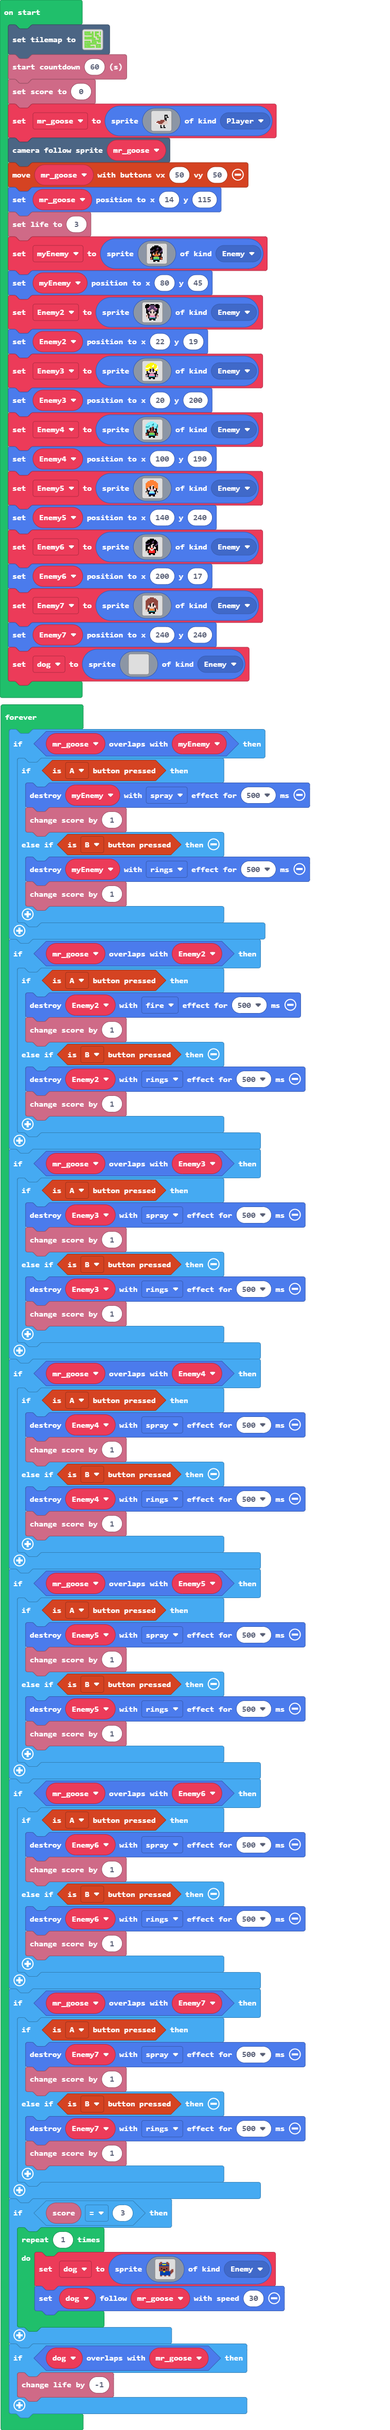
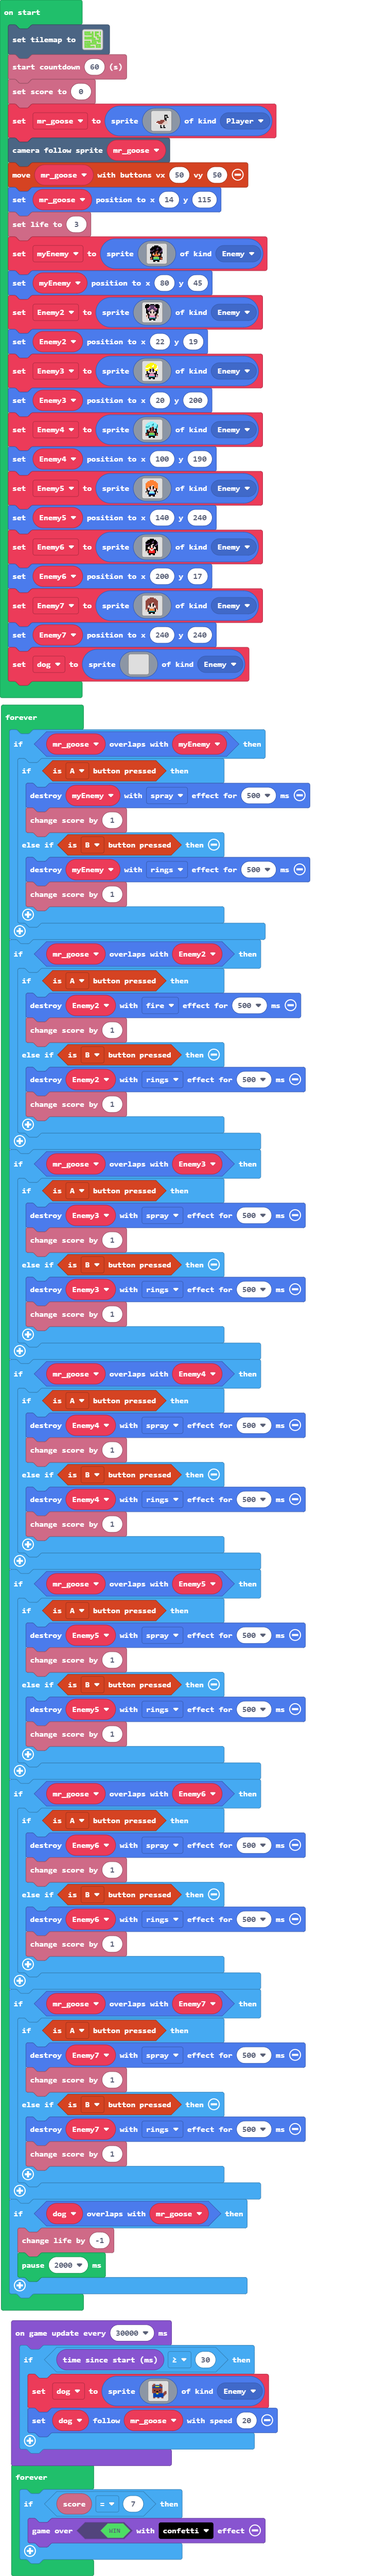
Update main.blocks, main.ts

diff --git a/main.ts b/main.ts
@@ -260,28 +260,34 @@ forever(function () {
             info.changeScoreBy(1)
         }
     }
-    if (info.score() == 3) {
-        for (let index = 0; index < 1; index++) {
-            dog = sprites.create(img`
-                . . . e e . . . . e e . . . . . 
-                . . e e e 8 8 8 8 e e e . . . . 
-                . . e e 8 5 5 5 5 8 e e . . . . 
-                . . 8 8 8 8 8 8 8 8 8 8 . . . . 
-                . . e e e e e e e e e e . . . . 
-                . . e e e e e e e e e e . . . . 
-                . . e e f e e e e f e e . . . . 
-                . . e e e e f f e e e e . . e e 
-                . . e e e e e e e e e e . e e e 
-                . . . 8 8 8 5 5 8 8 8 8 8 e e e 
-                . . . 8 8 8 8 8 8 8 8 8 8 e e . 
-                . . . 8 8 8 8 8 8 8 8 8 8 e . . 
-                . . . 8 8 8 8 8 8 8 8 8 8 . . . 
-                . . . e e . . e e . . e e . . . 
-                `, SpriteKind.Enemy)
-            dog.follow(mr_goose, 30)
-        }
-    }
     if (dog.overlapsWith(mr_goose)) {
         info.changeLifeBy(-1)
+        pause(2000)
+    }
+})
+forever(function () {
+    if (info.score() == 7) {
+        game.over(true, effects.confetti)
+    }
+})
+game.onUpdateInterval(30000, function () {
+    if (game.runtime() >= 30) {
+        dog = sprites.create(img`
+            . . . e e . . . . e e . . . . . 
+            . . e e e 8 8 8 8 e e e . . . . 
+            . . e e 8 5 5 5 5 8 e e . . . . 
+            . . 8 8 8 8 8 8 8 8 8 8 . . . . 
+            . . e e e e e e e e e e . . . . 
+            . . e e e e e e e e e e . . . . 
+            . . e e f e e e e f e e . . . . 
+            . . e e e e f f e e e e . . e e 
+            . . e e e e e e e e e e . e e e 
+            . . . 8 8 8 5 5 8 8 8 8 8 e e e 
+            . . . 8 8 8 8 8 8 8 8 8 8 e e . 
+            . . . 8 8 8 8 8 8 8 8 8 8 e . . 
+            . . . 8 8 8 8 8 8 8 8 8 8 . . . 
+            . . . e e . . e e . . e e . . . 
+            `, SpriteKind.Enemy)
+        dog.follow(mr_goose, 20)
     }
 })
